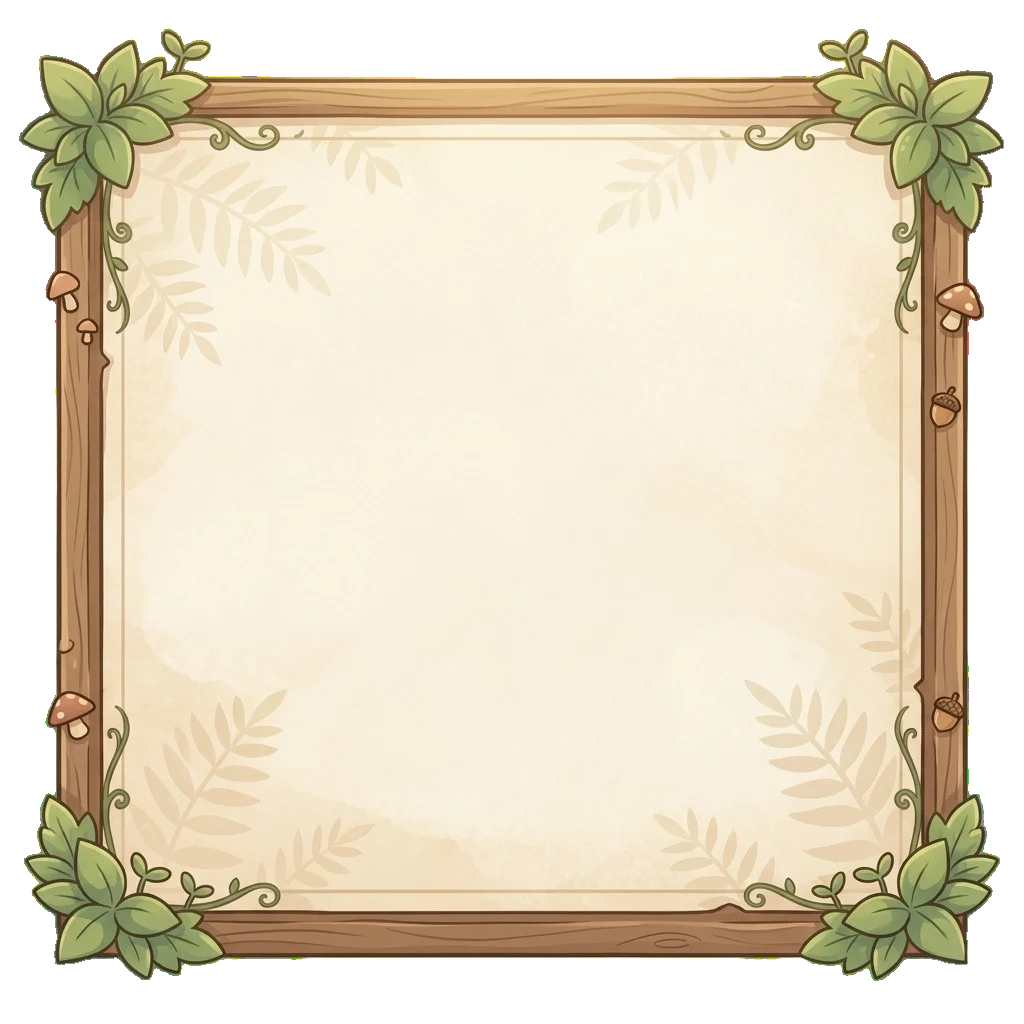
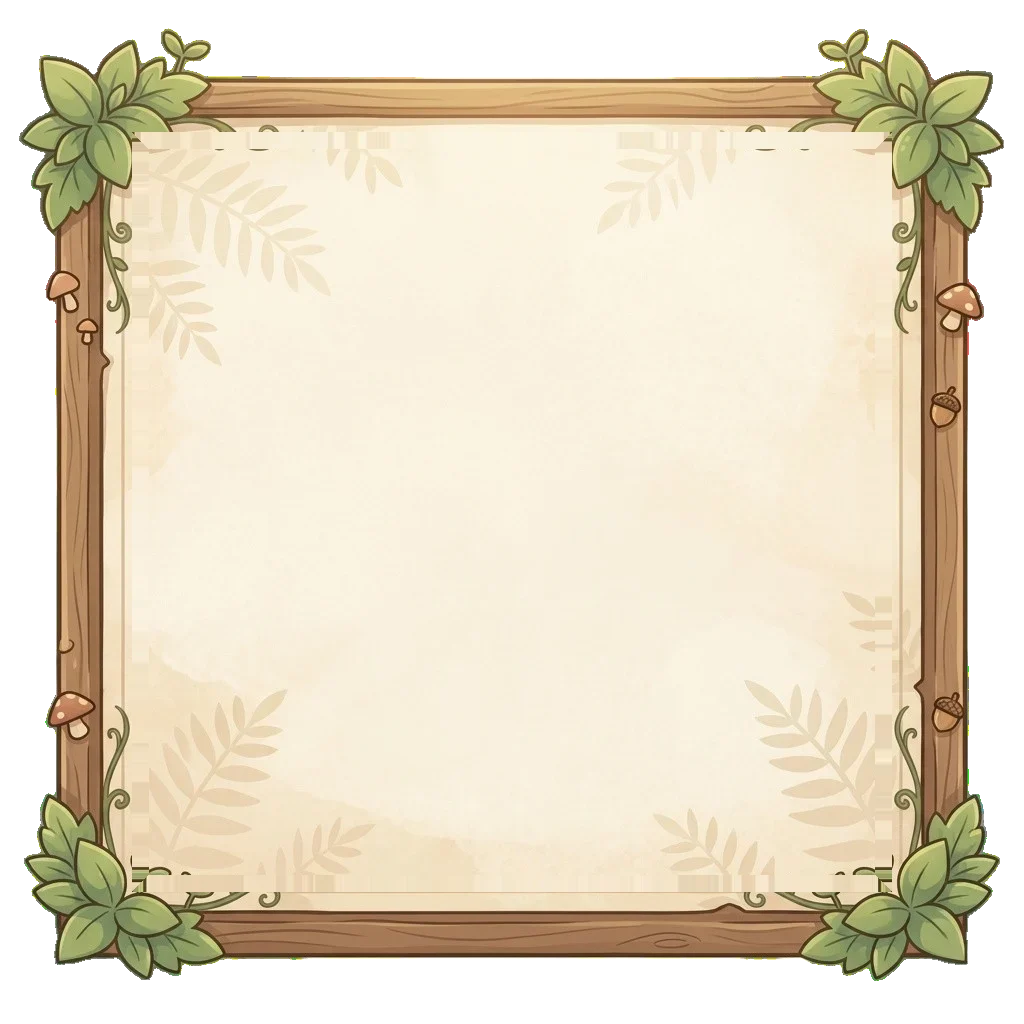
fix: 주사선 흐름 속도 완화 + 보드 양피지의 장식선 제거
주사선
- drift 0.5s → 0.85s. 0.5s는 올라가는 것이 너무 빨랐다(flicker 0.7s는 유지)

양피지 장식선
- back_board / back_board_wide 모두 나무틀 안쪽 양피지에 가느다란 선이 한 줄
  그려져 있었다. 원본에서는 밝기 244 → 235로 미묘하지만, border-image가 215px
  슬라이스를 32px로 6.7배 압축해 그리면서 화면에서는 또렷한 실선이 됐다.
  나무틀 자체의 윤곽선과 겹쳐 "액자가 두 겹"으로 보였다
- DOM에는 감싸는 테두리가 없어 CSS로는 지울 수 없고 그림을 고쳐야 했다.
  선이 가장자리에서 일정 깊이에 있으므로 그 띠를 더 안쪽의 깨끗한 양피지로
  바꿔치기했다 — 고사리 무늬와 나무틀 윤곽은 그대로 둔다
    back_board      132~148px 띠 → 162px 깊이에서 가져옴
    back_board_wide  76~ 94px 띠 → 110px 깊이
- public/ui/README.md에 "그림을 교체하면 다시 생길 수 있다"는 확인 절차를 남겼다

검증: 에셋 프로파일에서 해당 지점이 206 → 245로 평탄해진 것, 렌더에서 제목 바로 위
실선이 사라진 것을 이전/이후 비교로 확인. 주사선 주기 0.85s / 0.7s 확인.
로비 실측 3뷰포트 × 6단계 문제 0건.

이번 검증은 NEXT_DIST_DIR=.next-verify 로 돌려 dev 서버의 .next/를 건드리지 않았고,
빌드가 자동 수정한 client/tsconfig.json은 커밋 전에 되돌렸다.

diff --git a/client/app/globals.css b/client/app/globals.css
@@ -1954,7 +1954,7 @@ body {
   opacity: 1;
   transition: opacity 0.7s ease-out;   /* 서서히 켜진다 */
   animation:
-    lobbyScanDrift 0.5s linear infinite,
+    lobbyScanDrift 0.85s linear infinite,
     lobbyScanFlicker 0.7s ease-in-out infinite;
 }
 

diff --git a/client/public/ui/README.md b/client/public/ui/README.md
@@ -51,6 +51,24 @@ border-image: url(/ui/back_board.webp) 215 fill stretch;
 
 `fill`이 있어야 가운데 양피지가 배경으로 함께 그려진다.
 
+## 양피지의 장식선은 지웠다
+
+두 그림 모두 나무틀 안쪽 양피지에 **가느다란 장식선**이 한 줄 그려져 있었다.
+원본에서는 밝기 차이가 244 → 235 수준으로 미묘한데, `border-image`가 215px 슬라이스를
+32px로 **6.7배 압축**해 그리는 바람에 화면에서는 또렷한 실선이 됐다. 나무틀 자체의
+윤곽선과 겹쳐 "액자가 두 겹"으로 보여서 지웠다.
+
+지우는 방법 — 선은 가장자리에서 일정 깊이에 있으므로, 그 띠의 픽셀을 더 안쪽의 깨끗한
+양피지로 바꿔치기했다(고사리 무늬와 나무틀 윤곽은 건드리지 않는다). 깊이는 그림마다 다르다.
+
+| 그림 | 지운 띠(가장자리로부터) | 가져온 깊이 |
+| --- | --- | --- |
+| `back_board` | 132 ~ 148px | 162px |
+| `back_board_wide` | 76 ~ 94px | 110px |
+
+**그림을 새로 교체하면 이 선이 다시 생길 수 있다.** 폼을 띄워 제목 바로 위를 확인하고,
+가로 전체를 가로지르는 실선이 보이면 같은 방법으로 지운다.
+
 ## 두 그림은 카드가 아니라 의사요소 두 겹에 그린다
 
 `border-image-source`는 **보간되지 않는다.** 카드에 직접 걸면 규칙을 펼치는 순간
